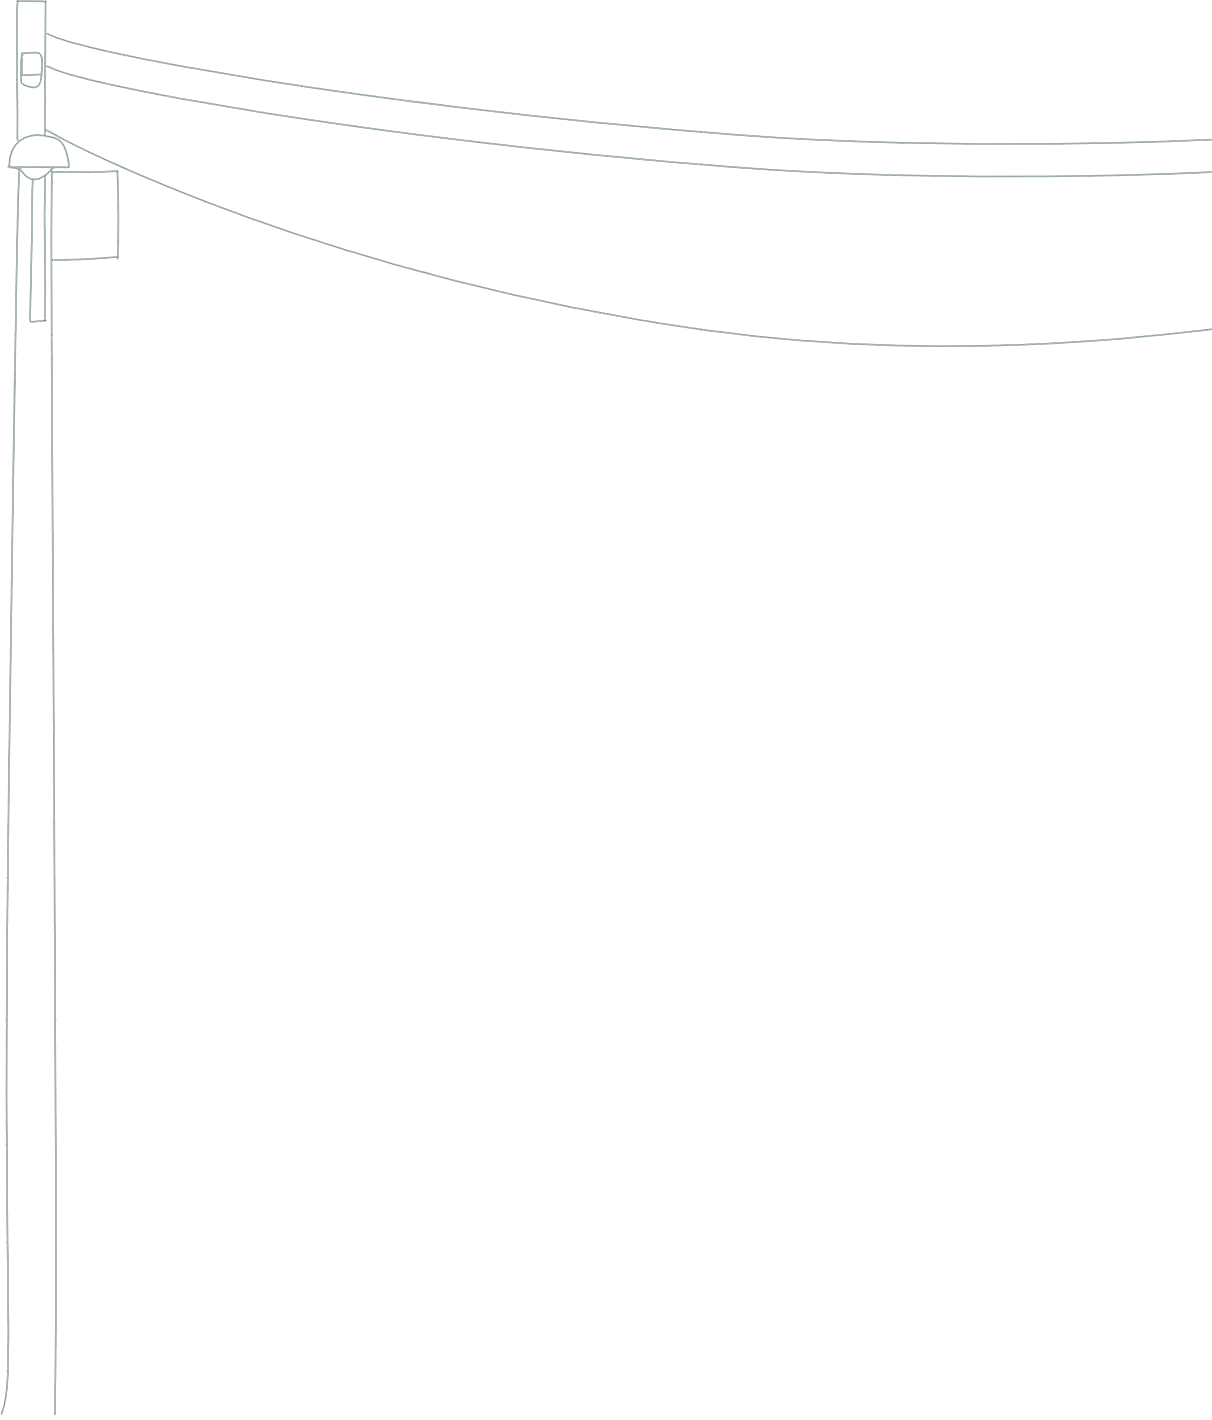
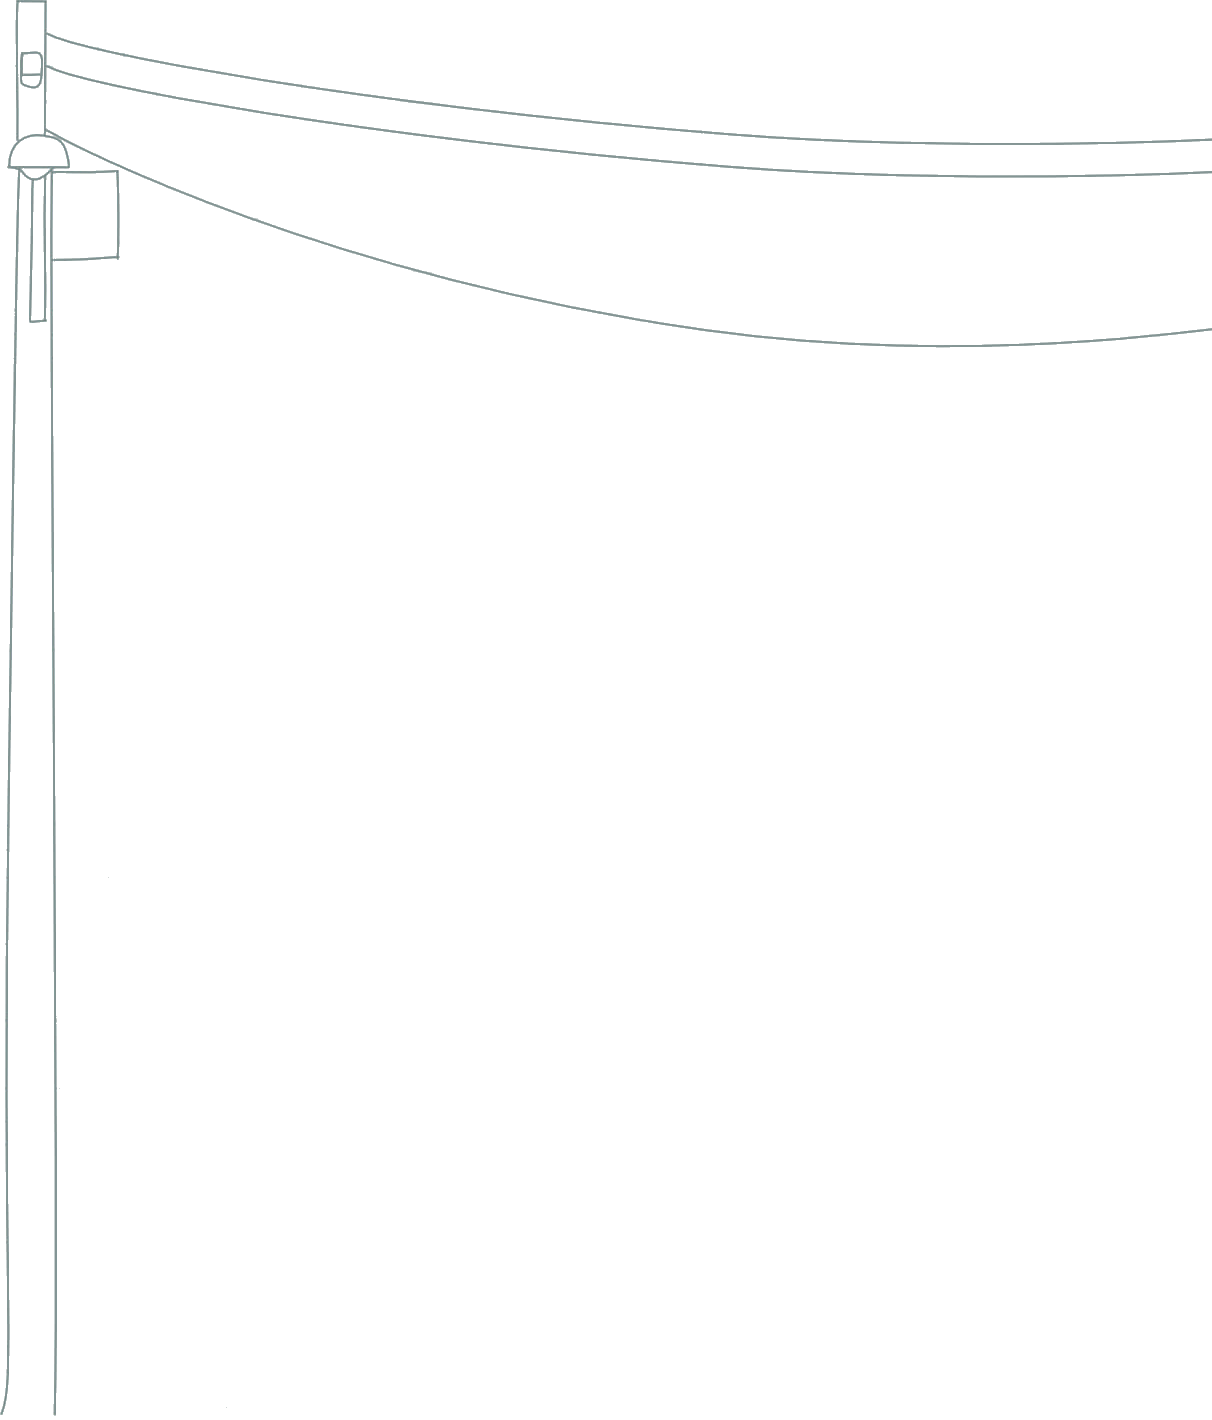
Portada: nitidez, nube, menú, farola, teléfono y escenografía
- Fondo y casa en versiones reducidas con buena calidad (public/scene),
  elegidas según la pantalla: las líneas finas ya no se difuminan.
- El fondo llega hasta el borde derecho (su dibujo acababa 21 px antes).
- Más aire arriba y abajo (3 %).
- Botón del menú más grande, negro y sobre blanco; la nube de esa esquina
  baja para dejarle hueco.
- Farola rellena de blanco y cables del mismo color en todo su recorrido.
- Teléfono: primer aviso a los 10 s y después cada 40 s (antes 15 s).
- Número de teléfono clicable (llamar) en Contacto y en el pie.
- Zona de Escenografía recortada hasta la persona que tira de la cuerda.

Claude-Session: https://claude.ai/code/session_01Tckd7FRN1Wj5sD4FJaZp8R

diff --git a/src/App.jsx b/src/App.jsx
@@ -55,6 +55,7 @@ import {
   telefonoFrames,
   vanFrames,
 } from './data/sceneFrames'
+import { CASA_SRC, FONDO_SRC, FONDO_STRETCH, SCENE_IMAGE_RATIO } from './data/sceneImages'
 import { SCENE_CROP_BOTTOM, useSceneSize } from './hooks/useSceneSize'
 import { useLanguage } from './context/LanguageContext'
 import { useProjectNavigation } from './context/ProjectNavigationContext'
@@ -135,8 +136,8 @@ function createRandomPausedFrameTween({
 }
 
 const staticSceneAssets = [
-  '/fondo.jpg',
-  '/Casa.png',
+  FONDO_SRC,
+  CASA_SRC,
   '/edificio_izquierda.svg',
   '/cartela.svg',
   '/farola.png',
@@ -235,7 +236,7 @@ export default function App() {
         contactSign: 'CONTACTO',
         phoneRinging: 'TELÉFONO SONANDO',
       }
-  const [sceneRatio, setSceneRatio] = useState(2048 / 1152)
+  const [sceneRatio, setSceneRatio] = useState(SCENE_IMAGE_RATIO)
   const [isAssetsReady, setIsAssetsReady] = useState(false)
   const [loadingProgress, setLoadingProgress] = useState(0)
   const [activePage, setActivePage] = useState('home')
@@ -454,11 +455,16 @@ export default function App() {
       return undefined
     }
 
+    // Primer aviso a los 10 s de entrar; despues, uno cada 40 s.
+    const firstRing = window.setTimeout(() => playPhoneAlert(), 10_000)
     const phoneInterval = window.setInterval(() => {
       playPhoneAlert()
-    }, 15_000)
+    }, 40_000)
 
-    return () => window.clearInterval(phoneInterval)
+    return () => {
+      window.clearTimeout(firstRing)
+      window.clearInterval(phoneInterval)
+    }
   }, [activePage, hasOpenedBusinessCard, isAssetsReady])
 
   useEffect(() => {
@@ -654,7 +660,7 @@ export default function App() {
     const { naturalWidth, naturalHeight } = event.currentTarget
 
     if (naturalWidth && naturalHeight) {
-      setSceneRatio(naturalWidth / naturalHeight)
+      setSceneRatio(SCENE_IMAGE_RATIO)
     }
   }
 
@@ -693,8 +699,8 @@ export default function App() {
               }
               const timeoutId = window.setTimeout(settle, 12_000)
               image.onload = () => {
-                if (src === '/fondo.jpg' && image.naturalWidth && image.naturalHeight) {
-                  setSceneRatio(image.naturalWidth / image.naturalHeight)
+                if (src === FONDO_SRC && image.naturalWidth && image.naturalHeight) {
+                  setSceneRatio(SCENE_IMAGE_RATIO)
                 }
                 settle()
               }
@@ -1931,7 +1937,8 @@ export default function App() {
         {
           left: '63.6%',
           top: '27%',
-          width: '13%',
+          // Hasta la mitad de la persona que tira de la cuerda.
+          width: '9.5%',
           height: '48%',
         },
       ],
@@ -1954,7 +1961,7 @@ export default function App() {
   ]
 
   const houseLayer = {
-    src: '/Casa.png',
+    src: CASA_SRC,
     alt: 'Capa central de la casa',
     className: 'absolute left-1/2 top-1/2 w-full object-contain',
     style: {
@@ -1984,9 +1991,9 @@ export default function App() {
     alt: 'Farola',
     className: 'absolute block',
     style: {
-      left: '15.4969%',
+      left: `${15.4969 * FONDO_STRETCH}%`,
       top: '52%',
-      width: '16.0807%',
+      width: `${16.0807 * FONDO_STRETCH}%`,
     },
   }
 
@@ -2285,7 +2292,8 @@ export default function App() {
         <section ref={sceneShellRef} className="scene-shell">
           <div className="scene-shell-content">
             <SceneArtboard
-              backgroundSrc="/fondo.jpg"
+              backgroundSrc={FONDO_SRC}
+              backgroundStretch={FONDO_STRETCH}
               bird={birdCharacter}
               building={leftBuildingLayer}
               cartela={cartelaLayer}

diff --git a/src/components/PageFooter.jsx b/src/components/PageFooter.jsx
@@ -3,5 +3,5 @@ import { useLanguage } from '../context/LanguageContext'
 export default function PageFooter() {
   const { language } = useLanguage()
   const copy = language === 'es' ? { location: '28047, Madrid, Espa\u00f1a', legal: 'Aviso legal', privacy: 'Pol\u00edtica de privacidad', cookies: 'Pol\u00edtica de cookies' } : language === 'it' ? { location: '28047, Madrid, Spagna', legal: 'Note legali', privacy: 'Informativa sulla privacy', cookies: 'Informativa sui cookie' } : { location: '28047, Madrid, Spain', legal: 'Legal notice', privacy: 'Privacy policy', cookies: 'Cookie policy' }
-  return <footer className="projects-page-footer"><div className="projects-page-footer-left"><p className="projects-page-footer-title">ESTUDIO M047</p><p>{copy.location}</p><p>(+34) 633 878 755</p></div><div className="projects-page-footer-right"><a className="projects-page-footer-link" href="https://www.instagram.com/m047.studio/" target="_blank" rel="noreferrer">Instagram</a><a className="projects-page-footer-link" href="https://www.linkedin.com/in/m047/" target="_blank" rel="noreferrer">LinkedIn</a><a className="projects-page-footer-link" href="https://www.behance.net/M047" target="_blank" rel="noreferrer">Behance</a><button type="button" className="projects-page-footer-link is-muted">{copy.legal}</button><button type="button" className="projects-page-footer-link is-muted">{copy.privacy}</button><button type="button" className="projects-page-footer-link is-muted">{copy.cookies}</button></div></footer>
+  return <footer className="projects-page-footer"><div className="projects-page-footer-left"><p className="projects-page-footer-title">ESTUDIO M047</p><p>{copy.location}</p><p><a className="projects-page-footer-link" href="tel:+34633878755">(+34) 633 878 755</a></p></div><div className="projects-page-footer-right"><a className="projects-page-footer-link" href="https://www.instagram.com/m047.studio/" target="_blank" rel="noreferrer">Instagram</a><a className="projects-page-footer-link" href="https://www.linkedin.com/in/m047/" target="_blank" rel="noreferrer">LinkedIn</a><a className="projects-page-footer-link" href="https://www.behance.net/M047" target="_blank" rel="noreferrer">Behance</a><button type="button" className="projects-page-footer-link is-muted">{copy.legal}</button><button type="button" className="projects-page-footer-link is-muted">{copy.privacy}</button><button type="button" className="projects-page-footer-link is-muted">{copy.cookies}</button></div></footer>
 }

diff --git a/src/data/sceneImages.js b/src/data/sceneImages.js
@@ -1,0 +1,22 @@
+// Fondo y casa de la portada en varios tamanos ya reducidos con buena calidad
+// (public/scene/). Se elige el mas cercano a la pantalla para que las lineas
+// finas no se difuminen al reducir el original de 7537 px en el navegador.
+const WIDTHS = [1600, 2000, 2400, 2800, 3200, 3600, 4200, 5000]
+
+// Proporcion del dibujo original (fondo.jpg 7537 x 4500).
+export const SCENE_IMAGE_RATIO = 7537 / 4500
+
+// El dibujo del fondo termina 21 px antes del borde derecho del archivo
+// original: se estira ese 0,28 % para que nube y casas lleguen al recuadro.
+export const FONDO_STRETCH = 7537 / 7516
+
+function pickWidth() {
+  if (typeof window === 'undefined') return 2800
+  const screenWidth = Math.min(window.innerWidth, window.screen?.width || window.innerWidth)
+  const target = screenWidth * (window.devicePixelRatio || 1)
+  return WIDTHS.find((width) => width >= target * 0.95) ?? WIDTHS[WIDTHS.length - 1]
+}
+
+const width = pickWidth()
+export const FONDO_SRC = `/scene/fondo-${width}.webp`
+export const CASA_SRC = `/scene/casa-${width}.webp`

diff --git a/src/hooks/useSceneSize.js b/src/hooks/useSceneSize.js
@@ -22,7 +22,8 @@ export function useSceneSize(sceneShellRef, sceneRatio, isSceneMounted) {
       // ventana, limitada por el ancho o por el alto (lo que llegue antes).
       const visibleRatio = sceneRatio / VISIBLE_FRACTION
       const availableWidth = shell.clientWidth - 4 - FRAME_BORDER * 2
-      const availableHeight = shell.clientHeight - 4 - FRAME_BORDER * 2
+      // Deja un 3 % de aire arriba y abajo para que el dibujo respire.
+      const availableHeight = shell.clientHeight * 0.94 - FRAME_BORDER * 2
       let visibleHeight = Math.min(availableHeight, availableWidth / visibleRatio)
       // En pantallas muy pequenas mantiene un minimo y se puede desplazar.
       if (visibleHeight * visibleRatio < 800) visibleHeight = 800 / visibleRatio

diff --git a/src/index.css b/src/index.css
@@ -2549,3 +2549,30 @@ a {
   top: 5%;
   bottom: 3.12%;
 }
+
+/* ---------- Boton del menu de la portada: mas grande, negro y sobre blanco ---------- */
+.scene-menu-button {
+  top: 0.7cqw;
+  right: 0.7cqw;
+  width: 3.1cqw;
+  height: 3.1cqw;
+  min-width: 2.4rem;
+  min-height: 2.4rem;
+  gap: 0.42cqw;
+  background: #ffffff;
+}
+
+.scene-menu-button span {
+  width: 1.9cqw;
+  min-width: 1.4rem;
+  height: max(2px, 0.15cqw);
+  background: #000000;
+}
+
+.scene-menu-button.is-open span:nth-child(1) {
+  transform: translateY(calc(0.42cqw + max(2px, 0.15cqw))) rotate(45deg);
+}
+
+.scene-menu-button.is-open span:nth-child(3) {
+  transform: translateY(calc(-0.42cqw - max(2px, 0.15cqw))) rotate(-45deg);
+}

diff --git a/src/components/ContactPage.jsx b/src/components/ContactPage.jsx
@@ -48,6 +48,10 @@ export default function ContactPage({ activePage, onBack, onNavigate }) {
                     <a key={line} className="contact-page-email" href={`mailto:${line}`}>
                       {line}
                     </a>
+                  ) : /633 878 755/.test(line) ? (
+                    <a key={line} className="contact-page-email" href="tel:+34633878755">
+                      {line}
+                    </a>
                   ) : (
                     <p key={line}>{line}</p>
                   )

diff --git a/src/components/SceneArtboard.jsx b/src/components/SceneArtboard.jsx
@@ -4,6 +4,7 @@ import SceneMenu from './SceneMenu'
 
 export default function SceneArtboard({
   backgroundSrc,
+  backgroundStretch = 1,
   building,
   businessCardOpen = false,
   frameStyle,
@@ -36,6 +37,7 @@ export default function SceneArtboard({
         alt="Fondo base de la composicion"
         onLoad={onBackgroundLoad}
         className="scene-background absolute inset-0 h-full w-full object-fill"
+        style={{ width: `${backgroundStretch * 100}%` }}
       />
 
       {streetLamp ? (

diff --git a/CLAUDE.md b/CLAUDE.md
@@ -87,7 +87,13 @@ claro en español.
   entonces), bucle continuo de `public/sounds/ambiente_m047.mp3` (pista de
   Sergio con fundido cruzado final→inicio, 128 kbps) y timbre
   `public/sounds/telefono_timbre.mp3` (2 timbres, ~8,6 s).
-- `public/`: imágenes. `fondo.jpg` es el fondo de la escena (7537×4500).
+- `public/`: imágenes. `fondo.jpg` (7537×4500) y `Casa.png` son los originales;
+  la web usa versiones reducidas con buena calidad en `public/scene/`
+  (`fondo-<ancho>.webp`, `casa-<ancho>.webp`), elegidas según la pantalla en
+  `src/data/sceneImages.js`. **Si se cambia fondo.jpg o Casa.png hay que
+  regenerarlas** (Lanczos + UnsharpMask 0.8/50 % y, en el fondo, líneas un 25 %
+  más oscuras). El fondo se estira un 0,28 % (`FONDO_STRETCH`) porque su dibujo
+  termina 21 px antes del borde derecho.
 
 ### Capas de la portada (de atrás a delante, por z-index)
 
@@ -125,3 +131,7 @@ claro en español.
   formulario por `mailto:` (sin terceros ni datos guardados en la web) con una
   nota de uso de datos; las páginas legales (aviso legal, privacidad, cookies)
   quedan pendientes para cuando tenga los datos fiscales. Precios: "a consultar".
+- 2026-11-10: nube de arriba a la derecha bajada en `fondo.jpg` para dejar
+  hueco al botón del menú (más grande, negro, sobre blanco). Farola rehecha
+  (poste relleno de blanco, cables opacos). Teléfono: primer aviso a los 10 s
+  y luego cada 40 s. Teléfono clicable (`tel:`) en Contacto y en el pie.
